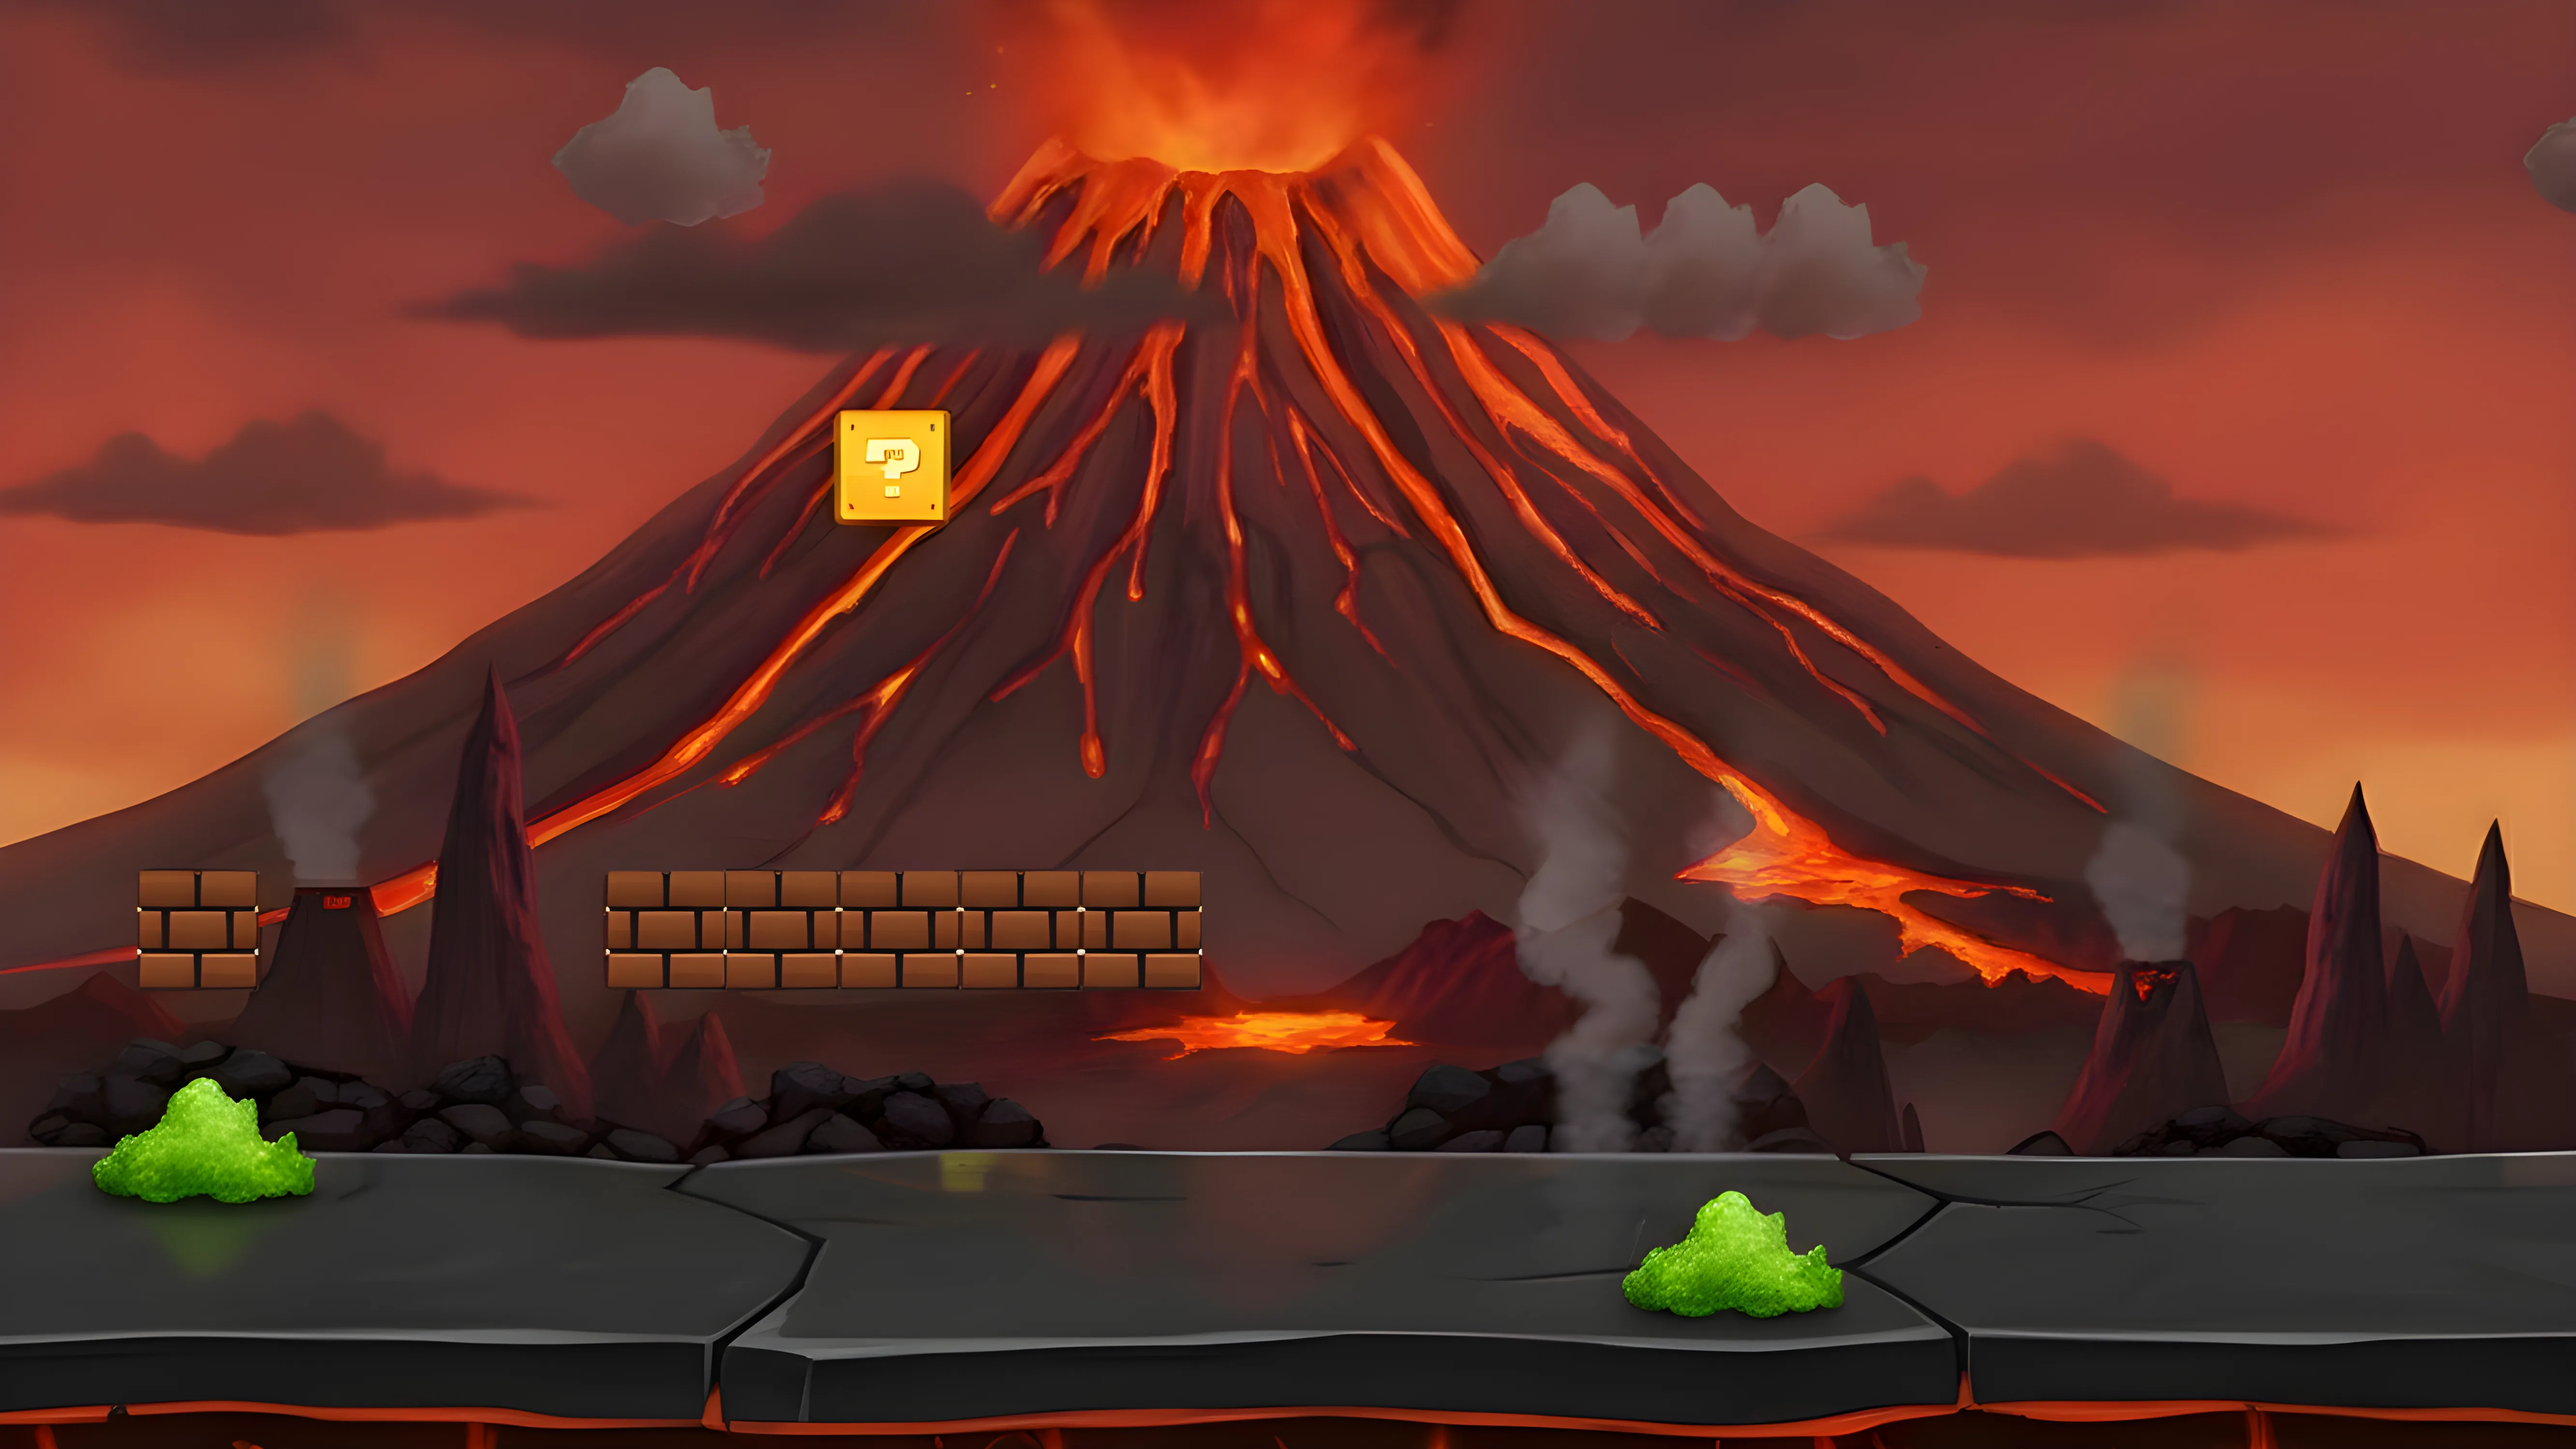
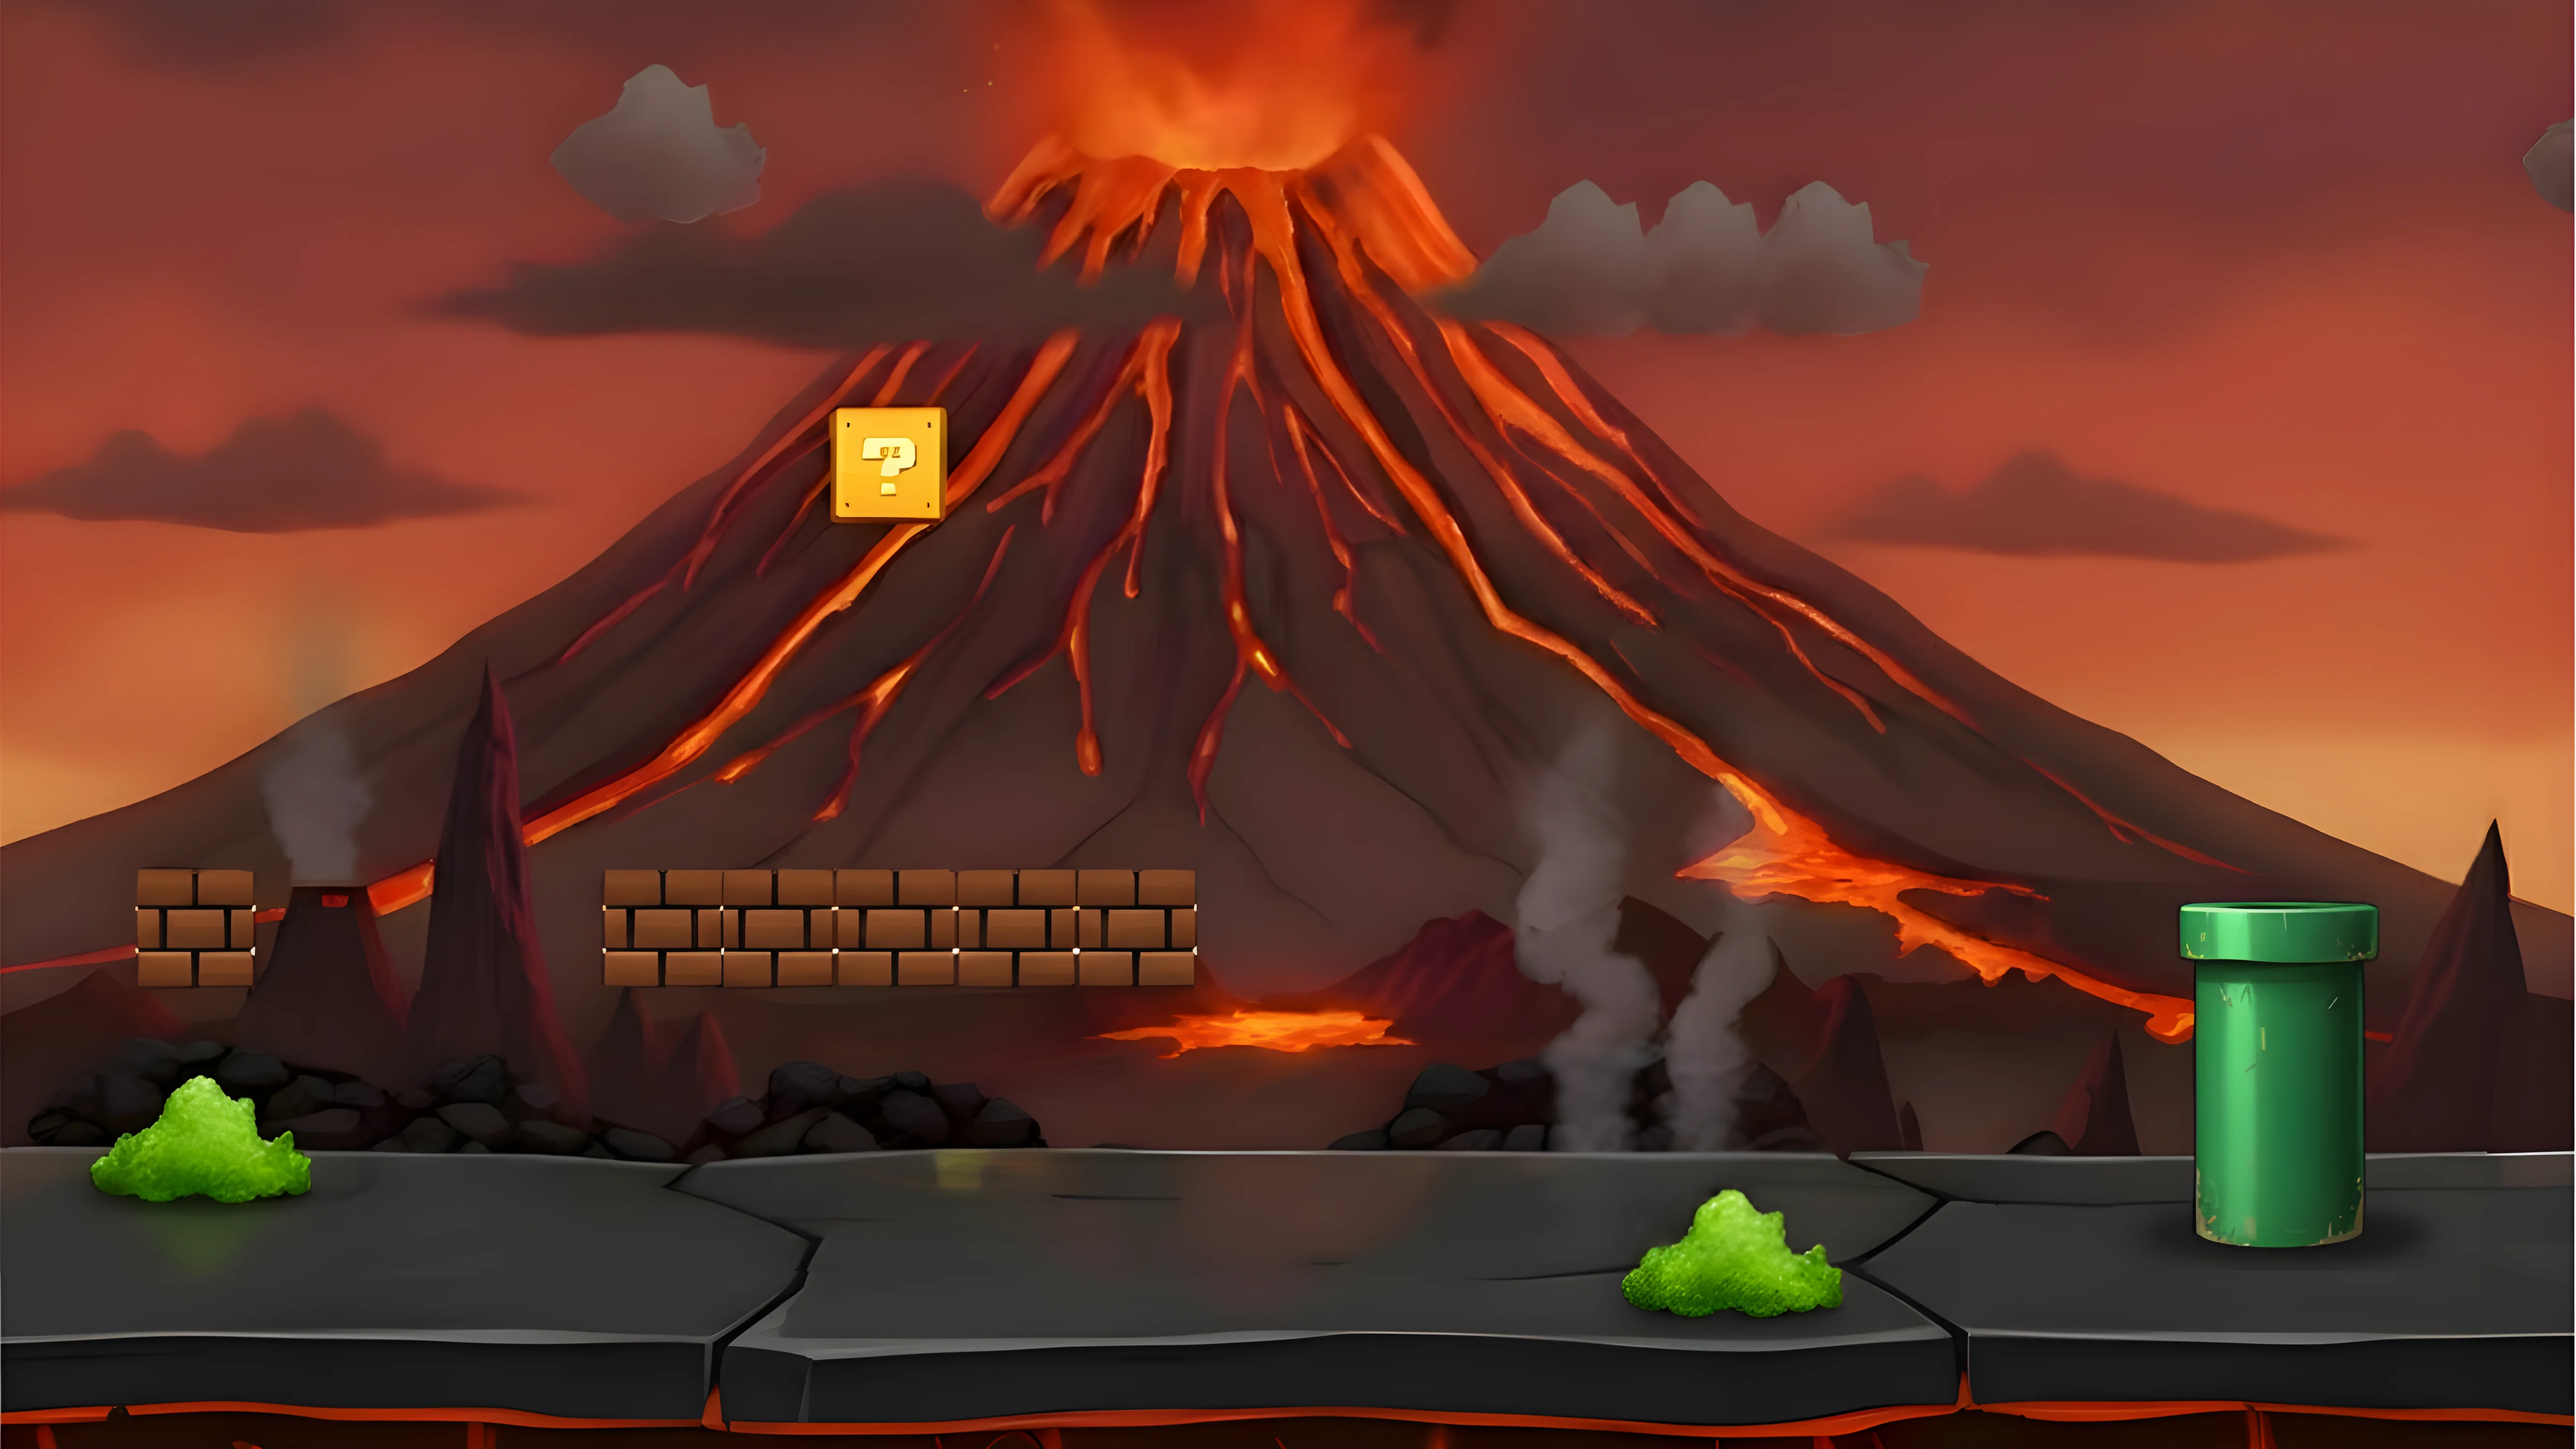
feat: add experience pipe

diff --git a/src/game/data/portfolioWorlds.ts b/src/game/data/portfolioWorlds.ts
@@ -64,11 +64,11 @@ export const portfolioWorlds: PortfolioWorld[] = [
             mobilePath: "/assets/tiles/mobile/experience.webp",
         },
         structures: {
-            pipe: { x: 1000000, y: 10000000, width: 0, height: 0 },
+            pipe: { x: 1130, y: 613, width: 78, height: 343 },
             blocks: [
                 { x: 90, y: 460, width: 20, height: 70 },
                 { x: 417, y: 460, width: 275, height: 70 },
-                { x: 415, y: 230, width: 18, height: 70 },
+                { x: 415, y: 220, width: 18, height: 70 },
             ],
         },
     },

diff --git a/src/game/scenes/WorldScene.ts b/src/game/scenes/WorldScene.ts
@@ -98,7 +98,8 @@ export class WorldScene extends Phaser.Scene {
 
         const scaleX = width / bg.width;
         const scaleY = height / bg.height;
-        const scale = Math.max(scaleX, scaleY);
+        const scaleBoost = this.activeWorld?.id === "experience" ? 1.03 : 1;
+        const scale = Math.max(scaleX, scaleY) * scaleBoost;
 
         bg.setScale(scale);
         bg.setScrollFactor(0);
